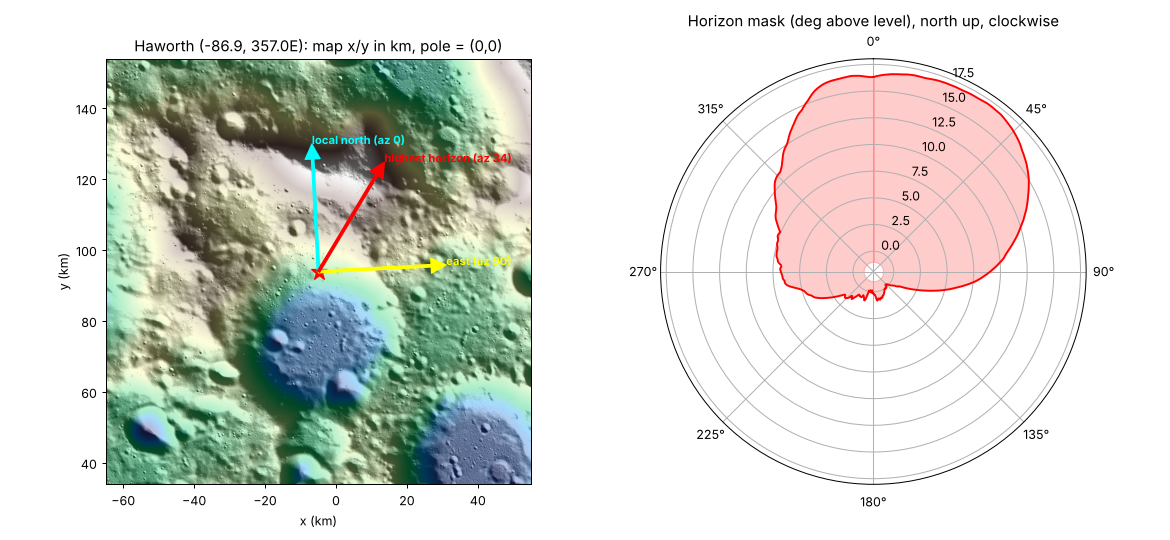
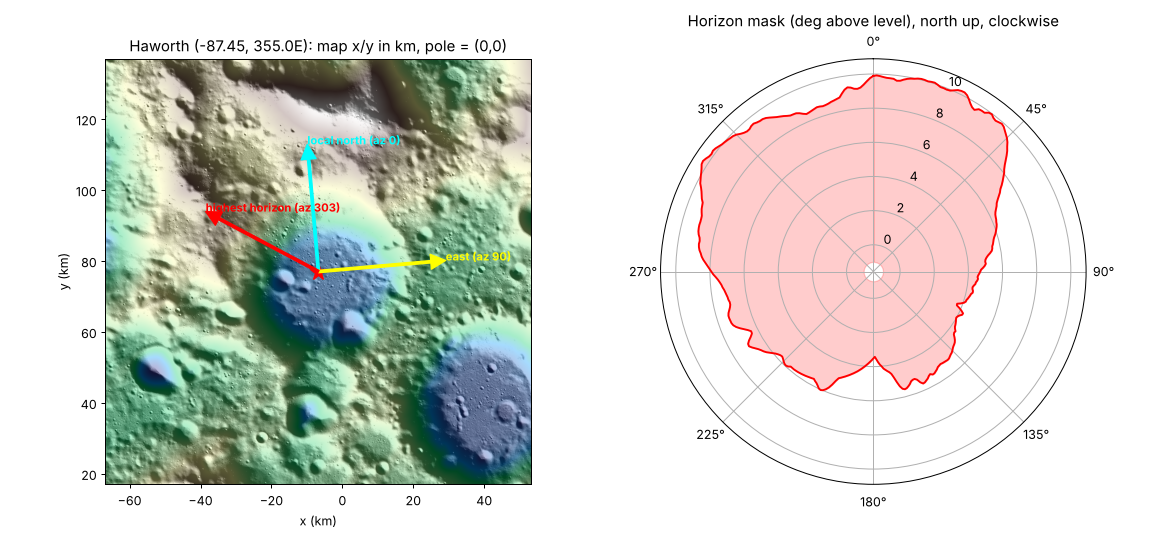
terrain: rebuild masks with A's site list (PR #6)
Claude-Session: https://claude.ai/code/session_01S4HjvmvyC9YYZxaR1oEDWt

diff --git a/terrain/validate.md b/terrain/validate.md
@@ -2,7 +2,7 @@
 
 The most likely bug in this project is a compass direction that is rotated or
 mirrored (the README warns about the polar-stereographic rotation sign). We
-checked it four ways. Status as of Sat 11:30 ET.
+checked it four ways. Status as of Sat 11:40 ET, using A's site list from PR #6.
 
 ## 1. Fake Moon with known mountains: passed
 
@@ -23,18 +23,18 @@ way, by hand in map x/y: at longitude λ, local north is (sin λ, cos λ) and lo
 east is (cos λ, −sin λ) on the map. This uses the README's flat formula and no
 `pyproj.Geod`. Results on the real 80 m DEM:
 
-| Site (placeholder coords) | median difference | correlation | mirrored (wrong sign) correlation |
+| Site (A's coords, PR #6) | median difference | correlation | mirrored (wrong sign) correlation |
 | --- | --- | --- | --- |
-| shackleton_ridge | 0.001° | 1.000 | 0.480 |
-| haworth | 0.002° | 1.000 | 0.872 |
-| malapert | 0.004° | 1.000 | −0.062 |
-| mons_mouton_plateau | 0.008° | 1.000 | 0.391 |
-| mons_mouton | 0.006° | 1.000 | −0.869 |
-| nobile_rim_1 | 0.018° | 1.000 | −0.085 |
-| nobile_rim_2 | 0.010° | 1.000 | 0.611 |
-| de_gerlache_rim_2 | 0.003° | 1.000 | −0.810 |
-| cabeus_b_peak | 0.039° | 1.000 | −0.255 |
-| slater_plain | 0.003° | 1.000 | 0.886 |
+| peak_near_cabeus_b | 0.003° | 1.000 | 0.902 |
+| haworth | 0.004° | 1.000 | 0.546 |
+| malapert_massif | 0.009° | 1.000 | −0.901 |
+| mons_mouton_plateau | 0.008° | 1.000 | −0.647 |
+| mons_mouton | 0.005° | 1.000 | 0.053 |
+| nobile_rim_1 | 0.009° | 1.000 | −0.913 |
+| nobile_rim_2 | 0.003° | 1.000 | −0.119 |
+| de_gerlache_rim_2 | 0.004° | 1.000 | −0.772 |
+| slater_plain | 0.001° | 1.000 | −0.120 |
+| shackleton_connecting_ridge | 0.001° | 1.000 | 0.480 |
 
 The mirrored version disagrees badly, so the test can tell right from wrong.
 This hand rotation is the same as the README code starter's, so that starter's
@@ -45,20 +45,22 @@ sign was right.
 `python terrain/plot_mask.py <site>` draws the shaded terrain map next to the
 mask, with arrows for local north, east, and the highest horizon.
 
-**Haworth** (placeholder point on the north inner rim of Haworth crater):
-the mask is low (about 0°) looking south into the crater floor and high
-(12–17°) looking north and north-east, where the map shows the high massif.
-North points away from the pole, as it should.
+**Haworth** (−87.45, 355.0): this point is the middle of Haworth crater's floor
+(ground −3.3 km). The mask is high in every direction (3.4–10.3°), highest toward
+the crater wall in the north-west, exactly the "bowl" the map shows. Important for
+the app: the Sun at the pole never climbs above about 1.5°, so this point is
+permanently dark. The NASA *region* is named after Haworth, but a landing point
+should sit on the rim or plateau beside it, not on the crater floor.
 
 ![Haworth](img/haworth.png)
 
-**Shackleton connecting ridge** (placeholder point): Shackleton crater
+**Shackleton connecting ridge** (−89.45, 222.69): Shackleton crater
 (the round crater right of the site) and de Gerlache (upper left) are where the
 map says they should be for their published centres. A high ridge site sees
 past the flat horizon in most directions (mask −2.4° to +0.6°), which matches
 why it is famous for long sunlight.
 
-![Shackleton ridge](img/shackleton_ridge.png)
+![Shackleton connecting ridge](img/shackleton_connecting_ridge.png)
 
 ## 4. Still to do
 
@@ -67,6 +69,8 @@ why it is famous for long sunlight.
 - [ ] Once A's `/ephemeris` works: the connecting ridge should be sunlit most of
       the month, and Malapert should see Earth most of the time. If either comes
       out mostly dark, suspect the masks.
-- [ ] Rerun with A's real coordinates. The placeholder points sometimes sit on
-      a crater wall (e.g. nobile_rim_1 sees a 29° slope 400 m away), which is
-      why exact coordinates matter so much at the pole.
+- [x] Rerun with A's coordinates (PR #6). Several points still sit on steep
+      slopes or in craters, and the mask there is dominated by ground within 1 km:
+      haworth (crater floor, permanently dark), mons_mouton_plateau (23° at 200 m),
+      nobile_rim_1 (26° at 1 km), de_gerlache_rim_2 (24° at 200 m). Those points
+      should be nudged onto the nearby rim or plateau top.

diff --git a/terrain/README.md b/terrain/README.md
@@ -18,9 +18,9 @@ python terrain/tests/test_synthetic.py   # fake-Moon tests (no download needed)
 python terrain/tests/test_crosscheck.py  # real DEM, two independent methods agree
 ```
 
-Sites come from `backend/data/sites.json` (Person A). Until that exists, the
-script uses `terrain/sites_fallback.json`, whose coordinates are rough
-placeholders. Rerun the script once A's file lands.
+Sites come from `backend/data/sites.json` (Person A). If that file is missing,
+the script uses `terrain/sites_fallback.json`, a copy of A's list from PR #6.
+Whenever A changes coordinates, rerun the script and commit the new masks.
 
 ## The data
 
